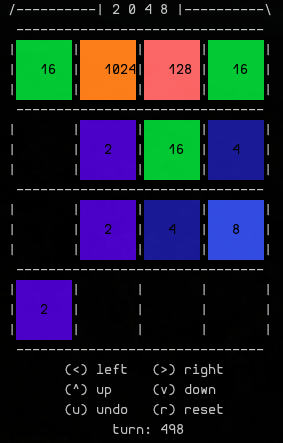
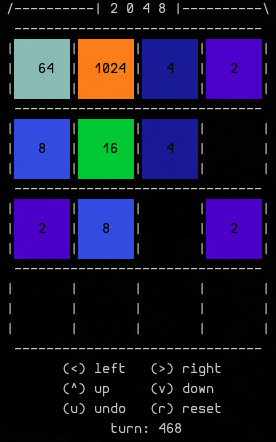
fixed misleading function name, added ability to reset

diff --git a/src/2048curses.c b/src/2048curses.c
@@ -1,11 +1,10 @@
-
 #include <curses.h>
 #include <stdlib.h>
 #include <math.h>
 #include <string.h>
-#include <time.h>
+#include <sys/time.h>
 
-#define HIST_SIZE   16 
+#define HIST_SIZE   32
 
 #define UP          0
 #define RIGHT       1
@@ -27,7 +26,6 @@
 #define COLOR_LIGHTBLUE 10
 #define COLOR_PINK      11
 #define COLOR_GOLD      12
-
 
 const char *title = 
 "/----------| 2 0 4 8 |----------\\";
@@ -52,20 +50,21 @@ const char* gameboard[] = {
 NULL
 };
 
-
 void draw_menu(WINDOW* win, int turn_count);
 void draw_board(WINDOW* win, int values[][4]);
 void draw_values(WINDOW* win, int values[][4], int use_color);
 
 int tilt(int values[][4], int direction);
 
-void add_random(int values[][4], int seed);
+void add_random(int values[][4]);
 int can_move(int values[][4]);
 int board_full(int values[][4]);
 
 void copy_values(int dest[][4], int source[][4]);
-void reset(int values[][4], int history[][4][4]); 
+void reset(int values[][4], int history[][4][4], int *history_top, int *history_count); 
+void record_state(int values[][4], int history[][4][4], int *history_top, int *history_count);
 void rotate(int ar[][4], int n);
+int get_random_int();
 
 int init_color_pairs();
 
@@ -94,7 +93,7 @@ int main(void)
         {0, 0, 0, 0},
         {0, 0, 0, 0},
     };
-    int turn_count = 1;
+    int turn_count = 0;
 
     int history[HIST_SIZE][4][4] = {};
     int history_top = 0;
@@ -113,12 +112,13 @@ int main(void)
 
     int ch;
     int quit = 0;
-    int modified = 0;
+    int modified = 1;
     int game_over = 0;
     int reset_board = 0;
 
-    add_random(values, time(0));
-    add_random(values, time(0) + 0x2048);
+    reset(values, history, &history_top, &history_count);
+    add_random(values);
+    add_random(values);
 
     draw_board(gamewin, values);
     draw_values(gamewin, values, has_color);
@@ -136,70 +136,54 @@ int main(void)
 
         ch = wgetch(gamewin);
 
-        if (ch != 'u') {
-            copy_values(history[history_top], values);
-            history_top = (history_top + 1) % (HIST_SIZE);
-            if (history_count < HIST_SIZE) {
-                history_count++;
-            }
+        if (ch != 'u' && ch != 'q' && ch != 'r') {
+            record_state(values, history, &history_top, &history_count);
         }
 
         if(ch != ERR && ch != KEY_RESIZE) {
 
-            if (ch == 'q') {
-                quit = 1;
-                break;
-            } else if (!game_over) {
-                switch(ch) {
-                    case KEY_UP:
-                        modified = tilt(values, UP);
-                        turn_count++;
-                        break;
-                    case KEY_DOWN:
-                        modified = tilt(values, DOWN);
-                        turn_count++;
-                        break;
-                    case KEY_LEFT:
-                        modified = tilt(values, LEFT);
-                        turn_count++;
-                        break;
-                    case KEY_RIGHT:
-                        modified = tilt(values, RIGHT);
-                        turn_count++;
-                        break;
-                    case 'u':
-                        if (history_count > 0) {
-                            turn_count--;
-                            history_count--;
-                            history_top = (history_top + HIST_SIZE - 1) % HIST_SIZE;
-                            copy_values(values, history[history_top]);
-                        }
-                        break;
-                    case 'r':
-                        reset(values, history); 
-                        turn_count = 1;
-                        reset_board = 1;
-                        history_top = 0;
-                        history_count = 0;
-                        break;
-                }
+            modified = 0;
+            switch(ch) {
+                case KEY_UP:
+                    modified = tilt(values, UP);
+                    break;
+                case KEY_DOWN:
+                    modified = tilt(values, DOWN);
+                    break;
+                case KEY_LEFT:
+                    modified = tilt(values, LEFT);
+                    break;
+                case KEY_RIGHT:
+                    modified = tilt(values, RIGHT);
+                    break;
+                case 'q':
+                    quit = 1;
+                    break;
+                case 'u':
+                    if (history_count > 0 && turn_count > 0) {
+                        turn_count--;
+                        history_count--;
+                        history_top = (history_top + HIST_SIZE - 1) % HIST_SIZE;
+                        copy_values(values, history[history_top]);
+                    } 
+                    break;
+                case 'r':
+                    game_over = 0;
+                    reset(values, history, &history_top, &history_count); 
+                    add_random(values);
+                    add_random(values);
+                    turn_count = 0;
+                    break;
             }
+        }
 
-            
-            if (!board_full(values) && ch != 'u') {
-                if (reset_board) {
-                    add_random(values, time(0));
-                    add_random(values, time(0) + 0x2048);
-                    reset_board = 0;
-                } else {
-                    if (modified) {
-                        add_random(values, time(0));
-                    }
-                }
-            } else if (can_move(values)){
-                game_over = 1;
-            }
+        if (modified) {
+            turn_count++;
+            add_random(values);
+        }
 
+        if (!can_move(values)){
+            game_over = 1;
         }
 
         wclear(gamewin);
@@ -223,6 +207,30 @@ int main(void)
     return EXIT_SUCCESS;
 }
 
+// copy gameboard into history
+void record_state(int values[][4], int history[][4][4], int *history_top, int *history_count)
+{
+    if (*history_count < HIST_SIZE) {
+        (*history_count)++;
+    }
+    copy_values(history[*history_top], values);
+    *history_top = (*history_top + 1) % (HIST_SIZE);
+}
+
+// reset all values is values and history to 0
+void reset(int values[][4], int history[][4][4], int *history_top, int *history_count)
+{
+    for (int i = 0; i < HIST_SIZE; i++) {
+        for (int j = 0; j < 4; j++) {
+            memset(history[i][j], 0, 4 * sizeof(int));
+        }
+    }
+    for (int i = 0; i < 4; i++) {
+        memset(values[i], 0, 4 * sizeof(int));
+    }
+    *history_top = 0; 
+    *history_count = 0;
+}
 
 int init_color_pairs()
 {
@@ -261,7 +269,6 @@ int init_color_pairs()
 void draw_menu(WINDOW* win, int turn_count)
 {
     static char turn_count_str[6] = "";
-
     wmove(win, 0, 8);
     waddch(win, '('); waddch(win, ACS_LARROW); waddch(win, ')'); waddstr(win, " left   ");
     waddch(win, '('); waddch(win, ACS_RARROW); waddch(win, ')'); waddstr(win, " right\n");
@@ -317,24 +324,30 @@ void draw_board(WINDOW* win, int values[][4])
 }
 
 // randomly place a tile
-void add_random(int values[][4], int seed)
+void add_random(int values[][4])
 {
     int isset = 0; 
-    srand(seed);
-
-    int num = rand()%4;
+    int num = get_random_int()%4;
     num = num == 0 ? 4 : 2;
 
     if (!board_full(values)) {
         while (!isset) {
-            int x = rand()%4;
-            int y = rand()%4;
+            int x = get_random_int()%4;
+            int y = get_random_int()%4;
             if (values[x][y] == 0) {
                 values[x][y] = num;
                 isset = 1;
             }
         }
     }
+}
+
+int get_random_int()
+{
+    struct timeval t;
+    gettimeofday(&t, NULL);
+    srand(t.tv_usec);
+    return rand();
 }
 
 // copy values from source to dest 
@@ -347,35 +360,23 @@ void copy_values(int dest[][4], int source[][4])
     }
 }
 
-void reset(int values[][4], int history[][4][4])
-{
-    for (int i = 0; i < HIST_SIZE; i++) {
-        for (int j = 0; j < 4; j++) {
-            memset(history[i][j], 0, 4 * sizeof(int));
-        }
-    }
-    for (int i = 0; i < 4; i++) {
-        memset(values[i], 0, 4 * sizeof(int));
-    }
-}
-
 // test if the player can move
 int can_move(int values[][4])
 {
     if (!board_full(values)) {
-        return 0;
+        return 1;
     } else {
         for (int j = 1; j < 4; j++) {
             for (int i = 1; i < 4; i++) {
                 if (values[i-1][j] == values[i][j]) {
-                    return 0;
+                    return 1;
                 } else if (values[i][j-1] == values[i][j]) {
-                    return 0;
+                    return 1;
                 }
             }
         }
     }
-    return 1;
+    return 0;
 }
 
 // check if board is full
